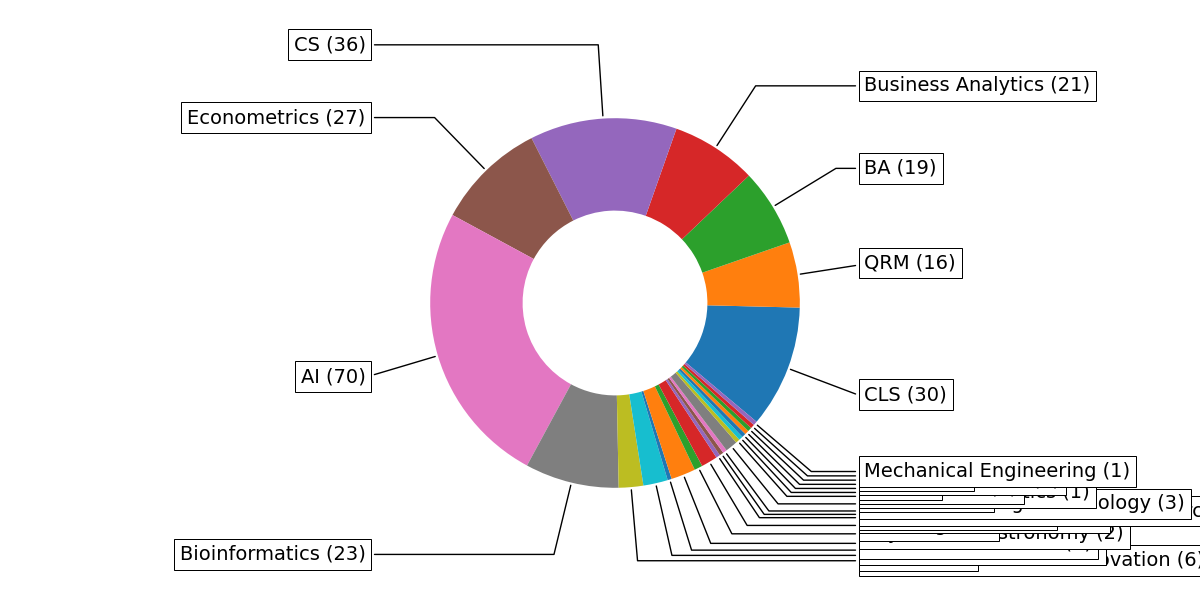
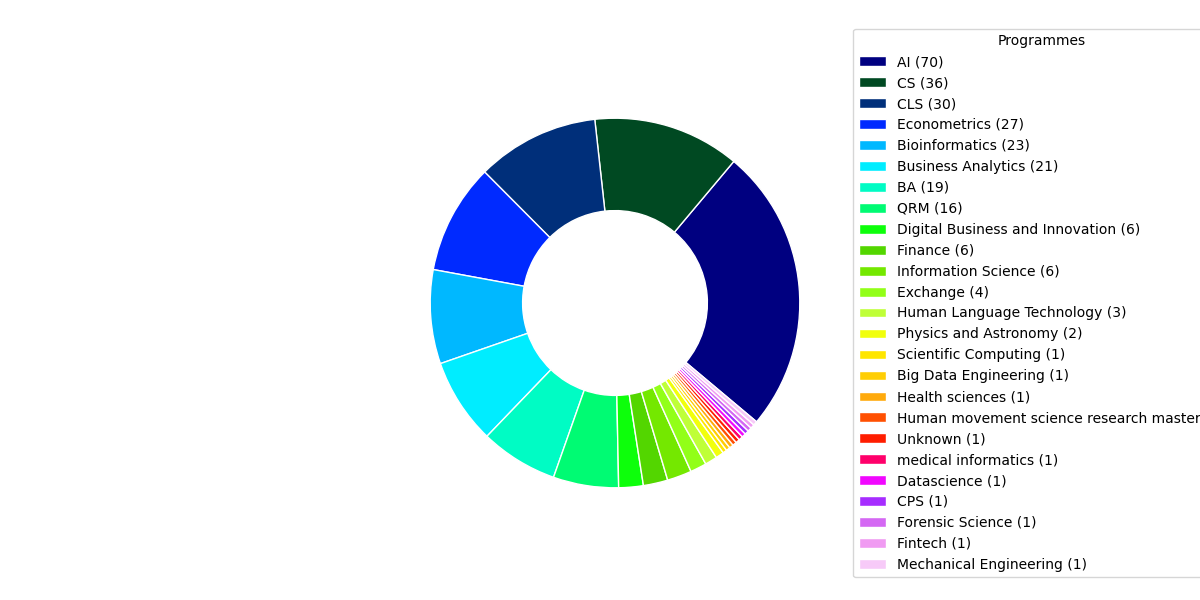
Changed Msc pie chart

diff --git a/code/clean.py b/code/clean.py
@@ -160,7 +160,7 @@ for entry in progData:
         progDict[entry]+=1
     else:
         progDict[entry]=1
-
+progDict={k: v for k, v in sorted(progDict.items(), key=lambda item: item[1], reverse=True)}
 # Plot pie chart
 # Documentation: https://matplotlib.org/3.1.1/gallery/pie_and_polar_charts/pie_and_donut_labels.html
 fig, ax = plt.subplots(figsize=(12, 6), subplot_kw=dict(aspect="equal"))
@@ -168,8 +168,24 @@ fig, ax = plt.subplots(figsize=(12, 6), subplot_kw=dict(aspect="equal"))
 labels = [(str(prog) + " (" + str(progDict[prog]) + ")") for prog in progDict]
 data = [amount for amount in progDict.values()]
 
-wedges, texts = ax.pie(data, wedgeprops=dict(width=0.5), startangle=-40)
+#clmap=plt.get_cmap("tab20b")
+#colors= clmap(range(20))
+NUM_COLORS=25
+cm=plt.get_cmap('gist_ncar')
+colors=[cm(1.*i/NUM_COLORS) for i in range(NUM_COLORS)]
+#for i in range(NUM_COLORS):
+#    colors.append(cm(i//3*3.0/NUM_COLORS))
+wedges, texts = ax.pie(data, colors=colors, wedgeprops=dict(width=0.5), startangle=-40)
 
+for w in wedges:
+    w.set_linewidth(1)
+    w.set_edgecolor('white')
+ax.legend(wedges, labels,
+          title="Programmes",
+          loc="center left",
+          bbox_to_anchor=(1, 0, 0.5, 1))
+
+'''
 bbox_props = dict(boxstyle="square,pad=0.3", fc="w", ec="k", lw=0.72)
 kw = dict(arrowprops=dict(arrowstyle="-"),
           bbox=bbox_props, zorder=0, va="center")
@@ -183,6 +199,8 @@ for i, p in enumerate(wedges):
     kw["arrowprops"].update({"connectionstyle": connectionstyle})
     ax.annotate(labels[i], xy=(x, y), xytext=(1.35*np.sign(x), 1.4*y),
                 horizontalalignment=horizontalalignment, **kw, size=14)
+'''
+
 
 # Save pie chart => .../DM122/plots
 filePath='..//plots//'
@@ -191,7 +209,7 @@ plotPath = os.path.join(fileDir, filePath) #'../data/test.csv')
 plotPath = os.path.abspath(os.path.realpath(plotPath))
 plotName = 'MscProgrammesPieChart.png'
 plt.savefig(os.path.join(plotPath, plotName))
-#plt.show()
+plt.show()
 
 # Save cleaned data to csv => .../DM122/data
 csvName='mscCleaned.csv'
